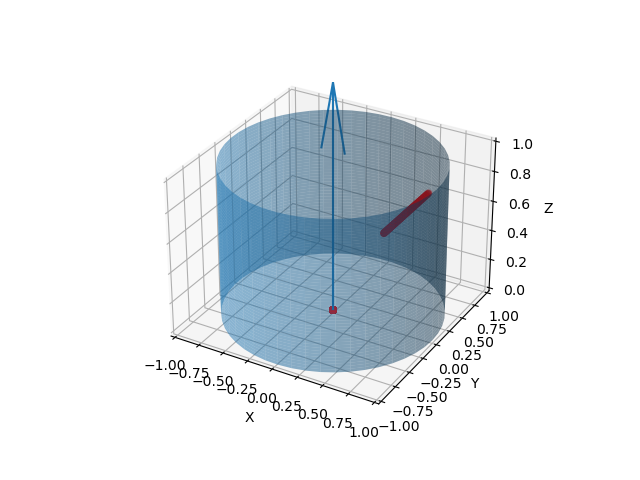
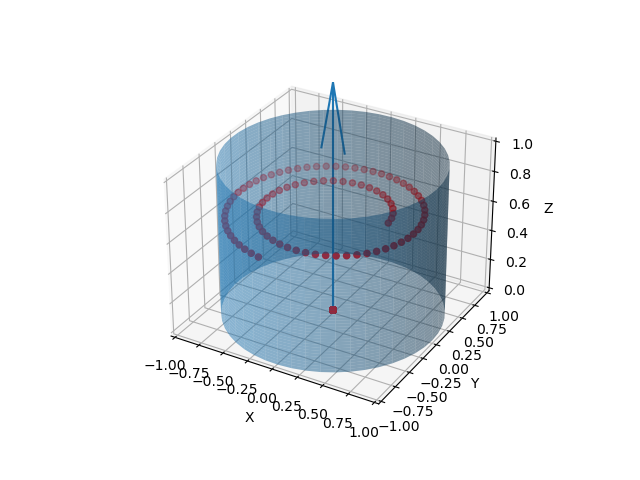
particle Eth=1 vth = 0 OK

Changed region(s): [[0.3438, 0.3438, 0.6875, 0.5625]]

diff --git a/main.py b/main.py
@@ -338,7 +338,7 @@ if __name__ == '__main__':
 
     # TEMPORARY SETTING SIMPLIFIED FIELDS
     Er_spiral = np.zeros_like(Er_spiral)                    # V/m
-    Etheta_spiral = np.zeros_like(Etheta_spiral)*0.01
+    Etheta_spiral = np.ones_like(Etheta_spiral)*0.01
     Ez_spiral  = np.zeros_like(Ez_spiral)
     Br_spiral = np.zeros_like(Br_spiral)
     Btheta_spiral = np.zeros_like(Btheta_spiral)
@@ -347,7 +347,7 @@ if __name__ == '__main__':
     q = -1.602176565e-19
     m = 9.10938215e-31
     qm = q/m
-    dt = 1e-2
+    dt = 1e-5
 
     from push_cylindrical import cyl2cart_coordinates_fields
 

diff --git a/initial_particles.py b/initial_particles.py
@@ -6,7 +6,7 @@ def generate_initial_particle_distribution(N,rmax,zmax,dr,dth,dz):
     z = zmax * np.random.random(N)
     vr = np.zeros(N) # np.random.normal(0, dr, N)
     vz = np.zeros(N) #np.random.normal(0, dz, N)
-    vth = np.ones(N)  #2*np.pi*np.random.normal(0, dth, N)
+    vth = np.zeros(N)  #2*np.pi*np.random.normal(0, dth, N)
     #vth = np.multiply(r,vth)
 
     return [r,theta,z,vr,vth,vz]
